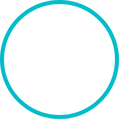
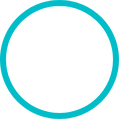
Animation of Pop ups in ChargingOPtion added, Edit profile profile frame is now a lil bit thicc

Changed region(s): [[0.025, 0.025, 0.975, 0.975]]

diff --git a/src/main/java/cephra/Phone/Popups/LinkFirst.java b/src/main/java/cephra/Phone/Popups/LinkFirst.java
@@ -8,9 +8,15 @@ public class LinkFirst extends javax.swing.JPanel {
  
     private static LinkFirst currentInstance = null;
     private static String currentTicketId = null;
-    private static boolean isShowing = false;    
+    private static boolean isShowing = false;
+    
+    // Intro animation fields
+    private boolean isShowingIntro = false;
+    private Timer introTimer;
+    private ImageIcon introGifIcon;
+    private ImageIcon mainImageIcon;
     private static final int POPUP_WIDTH = 280;
-    private static final int POPUP_HEIGHT = 200;
+    private static final int POPUP_HEIGHT = 230;
     private static final int PHONE_WIDTH = 350; 
     private static final int PHONE_HEIGHT = 750;   
   
@@ -101,6 +107,8 @@ public class LinkFirst extends javax.swing.JPanel {
             // Request focus to the popup so it can receive events
             SwingUtilities.invokeLater(() -> {
                 currentInstance.requestFocusInWindow();
+                // Start intro animation after popup is visible
+                currentInstance.startIntroAnimation();
             });
             
             phoneFrame.repaint();
@@ -114,6 +122,11 @@ public class LinkFirst extends javax.swing.JPanel {
         LinkFirst instance = currentInstance;
 
         SwingUtilities.invokeLater(() -> {
+            // Stop intro timer if running
+            if (instance.introTimer != null) {
+                instance.introTimer.stop();
+            }
+            
             if (instance.getParent() != null) {
                 instance.getParent().remove(instance);
             }
@@ -141,8 +154,72 @@ public class LinkFirst extends javax.swing.JPanel {
 }
 
     public LinkFirst() {
+        // Load intro gif and main image
+        loadImages();
         initComponents();
         initializePayPop();
+    }
+
+    /**
+     * Loads the intro gif and main image icons
+     */
+    private void loadImages() {
+        try {
+            introGifIcon = new ImageIcon(getClass().getResource("/cephra/Cephra Images/intLinkf.gif"));
+            mainImageIcon = new ImageIcon(getClass().getResource("/cephra/Cephra Images/Plslink.png"));
+        } catch (Exception e) {
+            System.err.println("Error loading images: " + e.getMessage());
+            e.printStackTrace();
+        }
+    }
+    
+    /**
+     * Starts the intro animation sequence
+     */
+    private void startIntroAnimation() {
+        if (jLabel1 == null) {
+            // Fallback to main image if label not available
+            showMainImage();
+            return;
+        }
+        
+        // Create a fresh GIF instance to reset animation
+        ImageIcon freshGifIcon = null;
+        try {
+            freshGifIcon = new ImageIcon(getClass().getResource("/cephra/Cephra Images/intLinkf.gif"));
+        } catch (Exception e) {
+            System.err.println("Error loading fresh intro gif: " + e.getMessage());
+            showMainImage();
+            return;
+        }
+        
+        isShowingIntro = true;
+        jLabel1.setIcon(freshGifIcon);
+        
+        // Set up timer to forcibly cut GIF and switch to main image after 200ms (0.2 seconds)
+        introTimer = new Timer(200, e -> {
+            // Force stop GIF by clearing icon first, then setting main image
+            jLabel1.setIcon(null);
+            SwingUtilities.invokeLater(() -> {
+                showMainImage();
+            });
+            introTimer.stop();
+        });
+        introTimer.setRepeats(false);
+        introTimer.start();
+    }
+    
+    /**
+     * Shows the main image and ends intro animation
+     */
+    private void showMainImage() {
+        if (jLabel1 != null && mainImageIcon != null) {
+            jLabel1.setIcon(mainImageIcon);
+        }
+        isShowingIntro = false;
+        if (introTimer != null) {
+            introTimer.stop();
+        }
     }
 
     private void initializePayPop() {
@@ -209,11 +286,11 @@ public class LinkFirst extends javax.swing.JPanel {
             }
         });
         add(notLink);
-        notLink.setBounds(215, 5, 60, 50);
+        notLink.setBounds(215, -7, 60, 50);
 
         jLabel1.setIcon(new javax.swing.ImageIcon(getClass().getResource("/cephra/Cephra Images/Plslink.png"))); // NOI18N
         add(jLabel1);
-        jLabel1.setBounds(0, 0, 280, 200);
+        jLabel1.setBounds(10, 0, 280, 230);
     }// </editor-fold>//GEN-END:initComponents
 
     private void notLinkActionPerformed(java.awt.event.ActionEvent evt) {//GEN-FIRST:event_notLinkActionPerformed

diff --git a/src/main/java/cephra/Phone/Popups/AlreadyFull.java b/src/main/java/cephra/Phone/Popups/AlreadyFull.java
@@ -11,6 +11,12 @@ public class AlreadyFull extends javax.swing.JPanel {
     private static String currentTicketId = null;
     private static boolean isShowing = false;
     
+    // Intro animation fields
+    private boolean isShowingIntro = false;
+    private Timer introTimer;
+    private ImageIcon introGifIcon;
+    private ImageIcon mainImageIcon;
+    
     // Popup dimensions (centered in phone frame)
     private static final int POPUP_WIDTH = 280;
     private static final int POPUP_HEIGHT = 266;
@@ -153,6 +159,12 @@ public class AlreadyFull extends javax.swing.JPanel {
             layeredPane.moveToFront(currentInstance);
             
             currentInstance.setVisible(true);
+            
+            // Start intro animation after popup is visible
+            SwingUtilities.invokeLater(() -> {
+                currentInstance.startIntroAnimation();
+            });
+            
             phoneFrame.repaint();
         });
     }
@@ -166,6 +178,11 @@ public class AlreadyFull extends javax.swing.JPanel {
         AlreadyFull instance = currentInstance;
 
         SwingUtilities.invokeLater(() -> {
+            // Stop intro timer if running
+            if (instance.introTimer != null) {
+                instance.introTimer.stop();
+            }
+            
             if (instance.getParent() != null) {
                 instance.getParent().remove(instance);
             }
@@ -237,8 +254,72 @@ public class AlreadyFull extends javax.swing.JPanel {
      * Constructor for PayPop
      */
     public AlreadyFull() {
+        // Load intro gif and main image
+        loadImages();
         initComponents();
         initializePayPop();
+    }
+    
+    /**
+     * Loads the intro gif and main image icons
+     */
+    private void loadImages() {
+        try {
+            introGifIcon = new ImageIcon(getClass().getResource("/cephra/Cephra Images/intAlfull.gif"));
+            mainImageIcon = new ImageIcon(getClass().getResource("/cephra/Cephra Images/AlreadyFull.png"));
+        } catch (Exception e) {
+            System.err.println("Error loading images: " + e.getMessage());
+            e.printStackTrace();
+        }
+    }
+    
+    /**
+     * Starts the intro animation sequence
+     */
+    private void startIntroAnimation() {
+        if (jLabel1 == null) {
+            // Fallback to main image if label not available
+            showMainImage();
+            return;
+        }
+        
+        // Create a fresh GIF instance to reset animation
+        ImageIcon freshGifIcon = null;
+        try {
+            freshGifIcon = new ImageIcon(getClass().getResource("/cephra/Cephra Images/intAlfull.gif"));
+        } catch (Exception e) {
+            System.err.println("Error loading fresh intro gif: " + e.getMessage());
+            showMainImage();
+            return;
+        }
+        
+        isShowingIntro = true;
+        jLabel1.setIcon(freshGifIcon);
+        
+        // Set up timer to forcibly cut GIF and switch to main image after 200ms (0.2 seconds)
+        introTimer = new Timer(200, e -> {
+            // Force stop GIF by clearing icon first, then setting main image
+            jLabel1.setIcon(null);
+            SwingUtilities.invokeLater(() -> {
+                showMainImage();
+            });
+            introTimer.stop();
+        });
+        introTimer.setRepeats(false);
+        introTimer.start();
+    }
+    
+    /**
+     * Shows the main image and ends intro animation
+     */
+    private void showMainImage() {
+        if (jLabel1 != null && mainImageIcon != null) {
+            jLabel1.setIcon(mainImageIcon);
+        }
+        isShowingIntro = false;
+        if (introTimer != null) {
+            introTimer.stop();
+        }
     }
     
     /**
@@ -330,7 +411,7 @@ public class AlreadyFull extends javax.swing.JPanel {
         add(Golink);
         Golink.setBounds(20, 180, 220, 40);
 
-        jLabel1.setIcon(new javax.swing.ImageIcon(getClass().getResource("/cephra/Cephra Images/AlreadyFull.png"))); // NOI18N
+        // Icon will be set by intro animation
         add(jLabel1);
         jLabel1.setBounds(10, 0, 280, 230);
     }// </editor-fold>//GEN-END:initComponents

diff --git a/src/main/java/cephra/Phone/Popups/AlreadyTicket.java b/src/main/java/cephra/Phone/Popups/AlreadyTicket.java
@@ -11,6 +11,12 @@ public class AlreadyTicket extends javax.swing.JPanel {
     private static String currentTicketId = null;
     private static boolean isShowing = false;
     
+    // Intro animation fields
+    private boolean isShowingIntro = false;
+    private Timer introTimer;
+    private ImageIcon introGifIcon;
+    private ImageIcon mainImageIcon;
+    
     // Popup dimensions (centered in phone frame)
     private static final int POPUP_WIDTH = 280;
     private static final int POPUP_HEIGHT = 269;
@@ -153,6 +159,12 @@ public class AlreadyTicket extends javax.swing.JPanel {
             layeredPane.moveToFront(currentInstance);
             
             currentInstance.setVisible(true);
+            
+            // Start intro animation after popup is visible
+            SwingUtilities.invokeLater(() -> {
+                currentInstance.startIntroAnimation();
+            });
+            
             phoneFrame.repaint();
         });
     }
@@ -166,6 +178,11 @@ public class AlreadyTicket extends javax.swing.JPanel {
         AlreadyTicket instance = currentInstance;
 
         SwingUtilities.invokeLater(() -> {
+            // Stop intro timer if running
+            if (instance.introTimer != null) {
+                instance.introTimer.stop();
+            }
+            
             if (instance.getParent() != null) {
                 instance.getParent().remove(instance);
             }
@@ -237,8 +254,72 @@ public class AlreadyTicket extends javax.swing.JPanel {
      * Constructor for PayPop
      */
     public AlreadyTicket() {
+        // Load intro gif and main image
+        loadImages();
         initComponents();
         initializePayPop();
+    }
+    
+    /**
+     * Loads the intro gif and main image icons
+     */
+    private void loadImages() {
+        try {
+            introGifIcon = new ImageIcon(getClass().getResource("/cephra/Cephra Images/IntroAltick.gif"));
+            mainImageIcon = new ImageIcon(getClass().getResource("/cephra/Cephra Images/AlreadyhaveTicket.png"));
+        } catch (Exception e) {
+            System.err.println("Error loading images: " + e.getMessage());
+            e.printStackTrace();
+        }
+    }
+    
+    /**
+     * Starts the intro animation sequence
+     */
+    private void startIntroAnimation() {
+        if (jLabel1 == null) {
+            // Fallback to main image if label not available
+            showMainImage();
+            return;
+        }
+        
+        // Create a fresh GIF instance to reset animation
+        ImageIcon freshGifIcon = null;
+        try {
+            freshGifIcon = new ImageIcon(getClass().getResource("/cephra/Cephra Images/IntroAltick.gif"));
+        } catch (Exception e) {
+            System.err.println("Error loading fresh intro gif: " + e.getMessage());
+            showMainImage();
+            return;
+        }
+        
+        isShowingIntro = true;
+        jLabel1.setIcon(freshGifIcon);
+        
+        // Set up timer to forcibly cut GIF and switch to main image after 200ms (0.2 seconds)
+        introTimer = new Timer(200, e -> {
+            // Force stop GIF by clearing icon first, then setting main image
+            jLabel1.setIcon(null);
+            SwingUtilities.invokeLater(() -> {
+                showMainImage();
+            });
+            introTimer.stop();
+        });
+        introTimer.setRepeats(false);
+        introTimer.start();
+    }
+    
+    /**
+     * Shows the main image and ends intro animation
+     */
+    private void showMainImage() {
+        if (jLabel1 != null && mainImageIcon != null) {
+            jLabel1.setIcon(mainImageIcon);
+        }
+        isShowingIntro = false;
+        if (introTimer != null) {
+            introTimer.stop();
+        }
     }
     
     /**
